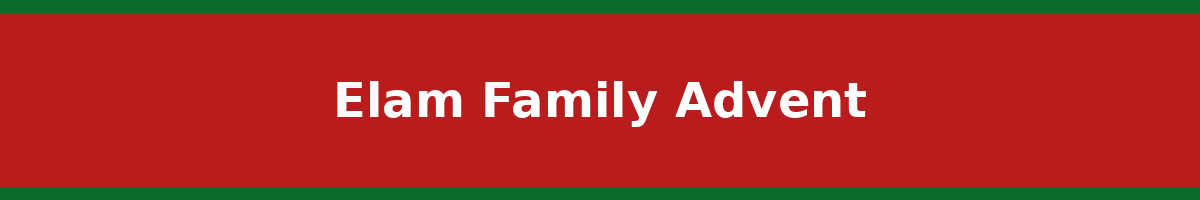
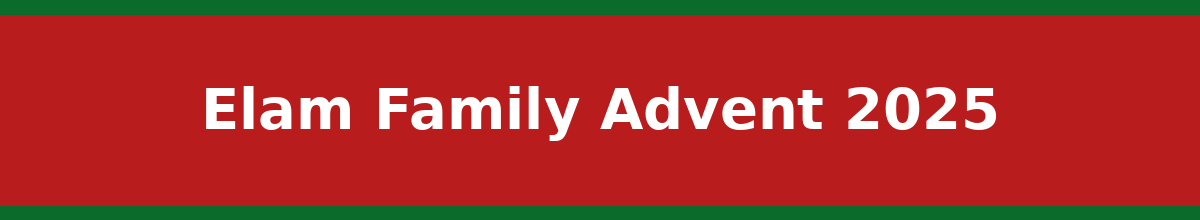
Add files via upload
updates rewards for certain days due to changes.

Changed region(s): [[0.1542, 0.39, 0.8325, 0.63], [0.0, 0.93, 1.0, 0.96], [0.0, 0.06, 1.0, 0.09]]

diff --git a/advent_pages/index.html b/advent_pages/index.html
@@ -1,7 +1,8 @@
 <html><head><meta charset='utf-8'><title>Advent Calendar</title>
 <style>
 body { font-family: Arial, sans-serif; background: linear-gradient(180deg,#fdf7f2,#f3f0ff); color: #1f2937; }
-.header { background: #b91c1c; color: #fff; text-align: center; padding-bottom: 8px; }
+.header { background: #b91c1c; color: #fff; text-align: center; }
+.header img.banner { width: 100%; max-width: 1200px; height: auto; display: block; margin: 0 auto; }
 .container { max-width: 820px; margin: 24px auto; padding: 24px; background: #ffffffcf; border-radius: 16px; box-shadow: 0 6px 20px rgba(0,0,0,0.1);} 
 h1 { margin: 10px 0 0; font-size: 28px; }
 h2 { color: #0a6b2b; margin-top: 18px; }
@@ -10,28 +11,28 @@ a.btn { display: inline-block; margin-top: 16px; padding: 12px 16px; background:
 button { margin-top: 12px; padding: 10px 14px; background: #b00020; color: #fff; border: none; border-radius: 8px; cursor: pointer; }
 #answer { display: none; margin-top: 10px; font-weight: bold; color: #111827; }
 </style></head><body>
-<div class='header'><h1>Advent Calendar 2025</h1></div>
+<div class='header'><img src='assets/header_banner.png' class='banner' alt='Elam Family Advent Banner'/><h1>Advent Calendar 2025</h1></div>
 <div class='container'><ol>
 <li><a href='day_01.html'>Day 1: Tech day (unlimited screen time for 2 hrs)</a></li>
 <li><a href='day_02.html'>Day 2: Stay up 30 min late</a></li>
 <li><a href='day_03.html'>Day 3: Ice cream dessert after swim</a></li>
 <li><a href='day_04.html'>Day 4: Choose dinner for the night</a></li>
 <li><a href='day_05.html'>Day 5: Get taken to school in the morning</a></li>
-<li><a href='day_06.html'>Day 6: Skip dog poop Chore</a></li>
-<li><a href='day_07.html'>Day 7: Play 2 hours of any vides games with Dad</a></li>
-<li><a href='day_08.html'>Day 8: Skip swin practice</a></li>
+<li><a href='day_06.html'>Day 6: Skip dog poop chore</a></li>
+<li><a href='day_07.html'>Day 7: Play 2 hours of any video games with Dad</a></li>
+<li><a href='day_08.html'>Day 8: Get taken to school in the morning</a></li>
 <li><a href='day_09.html'>Day 9: Stay up 30 min late</a></li>
-<li><a href='day_10.html'>Day 10: $5 dollar Starbucks gift card</a></li>
-<li><a href='day_11.html'>Day 11: Get taken to school in the morning</a></li>
-<li><a href='day_12.html'>Day 12: Choose dinner for the night</a></li>
+<li><a href='day_10.html'>Day 10: Choose dinner for the night</a></li>
+<li><a href='day_11.html'>Day 11: $5 Starbucks gift card</a></li>
+<li><a href='day_12.html'>Day 12: Donuts with Dad</a></li>
 <li><a href='day_13.html'>Day 13: Nitro Circus Gift</a></li>
-<li><a href='day_14.html'>Day 14: Play 2 hours of any vides games with Dad</a></li>
-<li><a href='day_15.html'>Day 15: Tech day (unlimited screen time for 2 hrs)</a></li>
+<li><a href='day_14.html'>Day 14: Play 2 hours of any video games with Dad</a></li>
+<li><a href='day_15.html'>Day 15: Skip swim practice</a></li>
 <li><a href='day_16.html'>Day 16: Stay up 30 min late</a></li>
 <li><a href='day_17.html'>Day 17: Ice cream dessert after swim</a></li>
 <li><a href='day_18.html'>Day 18: Get taken to school in the morning</a></li>
 <li><a href='day_19.html'>Day 19: Choose dinner for the night</a></li>
-<li><a href='day_20.html'>Day 20: Skip dog poop Chore</a></li>
+<li><a href='day_20.html'>Day 20: Skip dog poop chore</a></li>
 <li><a href='day_21.html'>Day 21: Weekend theater movie</a></li>
 <li><a href='day_22.html'>Day 22: Skip swim practice</a></li>
 <li><a href='day_23.html'>Day 23: Stay up 30 min late</a></li>

diff --git a/advent_pages/day_07.html b/advent_pages/day_07.html
@@ -5,7 +5,8 @@
 <title>Day 7 - Sunday - School Night</title>
 <style>
 body { font-family: Arial, sans-serif; background: linear-gradient(180deg,#fdf7f2,#f3f0ff); color: #1f2937; }
-.header { background: #b91c1c; color: #fff; text-align: center; padding-bottom: 8px; }
+.header { background: #b91c1c; color: #fff; text-align: center; }
+.header img.banner { width: 100%; max-width: 1200px; height: auto; display: block; margin: 0 auto; }
 .container { max-width: 820px; margin: 24px auto; padding: 24px; background: #ffffffcf; border-radius: 16px; box-shadow: 0 6px 20px rgba(0,0,0,0.1);} 
 h1 { margin: 10px 0 0; font-size: 28px; }
 h2 { color: #0a6b2b; margin-top: 18px; }
@@ -14,14 +15,14 @@ a.btn { display: inline-block; margin-top: 16px; padding: 12px 16px; background:
 button { margin-top: 12px; padding: 10px 14px; background: #b00020; color: #fff; border: none; border-radius: 8px; cursor: pointer; }
 #answer { display: none; margin-top: 10px; font-weight: bold; color: #111827; }
 </style>
-<script>function showAnswer() { document.getElementById('answer').style.display = 'block'; }</script>
+<script>function showAnswer(){document.getElementById('answer').style.display='block';}</script>
 </head>
 <body>
 <script src='js/snow.js'></script>
-<div class='header'><h1>Day 7 - Sunday - School Night</h1></div>
+<div class='header'><img src='assets/header_banner.png' class='banner' alt='Elam Family Advent Banner'/><h1>Day 7 - Sunday - School Night</h1></div>
 <div class='container'>
   <h2>Reward</h2>
-  <div class='box'>Play 2 hours of any vides games with Dad</div>
+  <div class='box'>Play 2 hours of any video games with Dad</div>
   <h2>Riddle</h2>
   <div class='box'>I hide surprises behind colors and curls; pull me to reveal the secret. What am I?</div>
   <button onclick='showAnswer()'>Show Answer</button>

diff --git a/advent_pages/day_14.html b/advent_pages/day_14.html
@@ -5,7 +5,8 @@
 <title>Day 14 - Sunday - School Night</title>
 <style>
 body { font-family: Arial, sans-serif; background: linear-gradient(180deg,#fdf7f2,#f3f0ff); color: #1f2937; }
-.header { background: #b91c1c; color: #fff; text-align: center; padding-bottom: 8px; }
+.header { background: #b91c1c; color: #fff; text-align: center; }
+.header img.banner { width: 100%; max-width: 1200px; height: auto; display: block; margin: 0 auto; }
 .container { max-width: 820px; margin: 24px auto; padding: 24px; background: #ffffffcf; border-radius: 16px; box-shadow: 0 6px 20px rgba(0,0,0,0.1);} 
 h1 { margin: 10px 0 0; font-size: 28px; }
 h2 { color: #0a6b2b; margin-top: 18px; }
@@ -14,14 +15,14 @@ a.btn { display: inline-block; margin-top: 16px; padding: 12px 16px; background:
 button { margin-top: 12px; padding: 10px 14px; background: #b00020; color: #fff; border: none; border-radius: 8px; cursor: pointer; }
 #answer { display: none; margin-top: 10px; font-weight: bold; color: #111827; }
 </style>
-<script>function showAnswer() { document.getElementById('answer').style.display = 'block'; }</script>
+<script>function showAnswer(){document.getElementById('answer').style.display='block';}</script>
 </head>
 <body>
 <script src='js/snow.js'></script>
-<div class='header'><h1>Day 14 - Sunday - School Night</h1></div>
+<div class='header'><img src='assets/header_banner.png' class='banner' alt='Elam Family Advent Banner'/><h1>Day 14 - Sunday - School Night</h1></div>
 <div class='container'>
   <h2>Reward</h2>
-  <div class='box'>Play 2 hours of any vides games with Dad</div>
+  <div class='box'>Play 2 hours of any video games with Dad</div>
   <h2>Riddle</h2>
   <div class='box'>Striped like a tiny barber’s pole with a hook for holding cheer. What am I?</div>
   <button onclick='showAnswer()'>Show Answer</button>

diff --git a/advent_pages/day_10.html b/advent_pages/day_10.html
@@ -5,7 +5,8 @@
 <title>Day 10 - Wednesday - School Night</title>
 <style>
 body { font-family: Arial, sans-serif; background: linear-gradient(180deg,#fdf7f2,#f3f0ff); color: #1f2937; }
-.header { background: #b91c1c; color: #fff; text-align: center; padding-bottom: 8px; }
+.header { background: #b91c1c; color: #fff; text-align: center; }
+.header img.banner { width: 100%; max-width: 1200px; height: auto; display: block; margin: 0 auto; }
 .container { max-width: 820px; margin: 24px auto; padding: 24px; background: #ffffffcf; border-radius: 16px; box-shadow: 0 6px 20px rgba(0,0,0,0.1);} 
 h1 { margin: 10px 0 0; font-size: 28px; }
 h2 { color: #0a6b2b; margin-top: 18px; }
@@ -14,14 +15,14 @@ a.btn { display: inline-block; margin-top: 16px; padding: 12px 16px; background:
 button { margin-top: 12px; padding: 10px 14px; background: #b00020; color: #fff; border: none; border-radius: 8px; cursor: pointer; }
 #answer { display: none; margin-top: 10px; font-weight: bold; color: #111827; }
 </style>
-<script>function showAnswer() { document.getElementById('answer').style.display = 'block'; }</script>
+<script>function showAnswer(){document.getElementById('answer').style.display='block';}</script>
 </head>
 <body>
 <script src='js/snow.js'></script>
-<div class='header'><h1>Day 10 - Wednesday - School Night</h1></div>
+<div class='header'><img src='assets/header_banner.png' class='banner' alt='Elam Family Advent Banner'/><h1>Day 10 - Wednesday - School Night</h1></div>
 <div class='container'>
   <h2>Reward</h2>
-  <div class='box'>$5 dollar Starbucks gift card</div>
+  <div class='box'>Choose dinner for the night</div>
   <h2>Riddle</h2>
   <div class='box'>Made by hands that never sell, I’m wrapped in wonder without a price tag. What am I?</div>
   <button onclick='showAnswer()'>Show Answer</button>

diff --git a/advent_pages/day_11.html b/advent_pages/day_11.html
@@ -5,7 +5,8 @@
 <title>Day 11 - Thursday - School Night</title>
 <style>
 body { font-family: Arial, sans-serif; background: linear-gradient(180deg,#fdf7f2,#f3f0ff); color: #1f2937; }
-.header { background: #b91c1c; color: #fff; text-align: center; padding-bottom: 8px; }
+.header { background: #b91c1c; color: #fff; text-align: center; }
+.header img.banner { width: 100%; max-width: 1200px; height: auto; display: block; margin: 0 auto; }
 .container { max-width: 820px; margin: 24px auto; padding: 24px; background: #ffffffcf; border-radius: 16px; box-shadow: 0 6px 20px rgba(0,0,0,0.1);} 
 h1 { margin: 10px 0 0; font-size: 28px; }
 h2 { color: #0a6b2b; margin-top: 18px; }
@@ -14,14 +15,14 @@ a.btn { display: inline-block; margin-top: 16px; padding: 12px 16px; background:
 button { margin-top: 12px; padding: 10px 14px; background: #b00020; color: #fff; border: none; border-radius: 8px; cursor: pointer; }
 #answer { display: none; margin-top: 10px; font-weight: bold; color: #111827; }
 </style>
-<script>function showAnswer() { document.getElementById('answer').style.display = 'block'; }</script>
+<script>function showAnswer(){document.getElementById('answer').style.display='block';}</script>
 </head>
 <body>
 <script src='js/snow.js'></script>
-<div class='header'><h1>Day 11 - Thursday - School Night</h1></div>
+<div class='header'><img src='assets/header_banner.png' class='banner' alt='Elam Family Advent Banner'/><h1>Day 11 - Thursday - School Night</h1></div>
 <div class='container'>
   <h2>Reward</h2>
-  <div class='box'>Get taken to school in the morning</div>
+  <div class='box'>$5 Starbucks gift card</div>
   <h2>Riddle</h2>
   <div class='box'>Stacked in three, I wear a carrot crown; one ray of sun and I bow out. Who am I?</div>
   <button onclick='showAnswer()'>Show Answer</button>

diff --git a/advent_pages/day_15.html b/advent_pages/day_15.html
@@ -5,7 +5,8 @@
 <title>Day 15 - Monday - School Night</title>
 <style>
 body { font-family: Arial, sans-serif; background: linear-gradient(180deg,#fdf7f2,#f3f0ff); color: #1f2937; }
-.header { background: #b91c1c; color: #fff; text-align: center; padding-bottom: 8px; }
+.header { background: #b91c1c; color: #fff; text-align: center; }
+.header img.banner { width: 100%; max-width: 1200px; height: auto; display: block; margin: 0 auto; }
 .container { max-width: 820px; margin: 24px auto; padding: 24px; background: #ffffffcf; border-radius: 16px; box-shadow: 0 6px 20px rgba(0,0,0,0.1);} 
 h1 { margin: 10px 0 0; font-size: 28px; }
 h2 { color: #0a6b2b; margin-top: 18px; }
@@ -14,14 +15,14 @@ a.btn { display: inline-block; margin-top: 16px; padding: 12px 16px; background:
 button { margin-top: 12px; padding: 10px 14px; background: #b00020; color: #fff; border: none; border-radius: 8px; cursor: pointer; }
 #answer { display: none; margin-top: 10px; font-weight: bold; color: #111827; }
 </style>
-<script>function showAnswer() { document.getElementById('answer').style.display = 'block'; }</script>
+<script>function showAnswer(){document.getElementById('answer').style.display='block';}</script>
 </head>
 <body>
 <script src='js/snow.js'></script>
-<div class='header'><h1>Day 15 - Monday - School Night</h1></div>
+<div class='header'><img src='assets/header_banner.png' class='banner' alt='Elam Family Advent Banner'/><h1>Day 15 - Monday - School Night</h1></div>
 <div class='container'>
   <h2>Reward</h2>
-  <div class='box'>Tech day (unlimited screen time for 2 hrs)</div>
+  <div class='box'>Skip swim practice</div>
   <h2>Riddle</h2>
   <div class='box'>We toil all year for joy, accepting cookies as wages. Who are we?</div>
   <button onclick='showAnswer()'>Show Answer</button>

diff --git a/advent_pages/day_08.html b/advent_pages/day_08.html
@@ -5,7 +5,8 @@
 <title>Day 8 - Monday - School Night</title>
 <style>
 body { font-family: Arial, sans-serif; background: linear-gradient(180deg,#fdf7f2,#f3f0ff); color: #1f2937; }
-.header { background: #b91c1c; color: #fff; text-align: center; padding-bottom: 8px; }
+.header { background: #b91c1c; color: #fff; text-align: center; }
+.header img.banner { width: 100%; max-width: 1200px; height: auto; display: block; margin: 0 auto; }
 .container { max-width: 820px; margin: 24px auto; padding: 24px; background: #ffffffcf; border-radius: 16px; box-shadow: 0 6px 20px rgba(0,0,0,0.1);} 
 h1 { margin: 10px 0 0; font-size: 28px; }
 h2 { color: #0a6b2b; margin-top: 18px; }
@@ -14,14 +15,14 @@ a.btn { display: inline-block; margin-top: 16px; padding: 12px 16px; background:
 button { margin-top: 12px; padding: 10px 14px; background: #b00020; color: #fff; border: none; border-radius: 8px; cursor: pointer; }
 #answer { display: none; margin-top: 10px; font-weight: bold; color: #111827; }
 </style>
-<script>function showAnswer() { document.getElementById('answer').style.display = 'block'; }</script>
+<script>function showAnswer(){document.getElementById('answer').style.display='block';}</script>
 </head>
 <body>
 <script src='js/snow.js'></script>
-<div class='header'><h1>Day 8 - Monday - School Night</h1></div>
+<div class='header'><img src='assets/header_banner.png' class='banner' alt='Elam Family Advent Banner'/><h1>Day 8 - Monday - School Night</h1></div>
 <div class='container'>
   <h2>Reward</h2>
-  <div class='box'>Skip swin practice</div>
+  <div class='box'>Get taken to school in the morning</div>
   <h2>Riddle</h2>
   <div class='box'>I’m green and not a tree; under me, courage turns into a kiss. What am I?</div>
   <button onclick='showAnswer()'>Show Answer</button>

diff --git a/advent_pages/day_12.html b/advent_pages/day_12.html
@@ -5,7 +5,8 @@
 <title>Day 12 - Friday</title>
 <style>
 body { font-family: Arial, sans-serif; background: linear-gradient(180deg,#fdf7f2,#f3f0ff); color: #1f2937; }
-.header { background: #b91c1c; color: #fff; text-align: center; padding-bottom: 8px; }
+.header { background: #b91c1c; color: #fff; text-align: center; }
+.header img.banner { width: 100%; max-width: 1200px; height: auto; display: block; margin: 0 auto; }
 .container { max-width: 820px; margin: 24px auto; padding: 24px; background: #ffffffcf; border-radius: 16px; box-shadow: 0 6px 20px rgba(0,0,0,0.1);} 
 h1 { margin: 10px 0 0; font-size: 28px; }
 h2 { color: #0a6b2b; margin-top: 18px; }
@@ -14,14 +15,14 @@ a.btn { display: inline-block; margin-top: 16px; padding: 12px 16px; background:
 button { margin-top: 12px; padding: 10px 14px; background: #b00020; color: #fff; border: none; border-radius: 8px; cursor: pointer; }
 #answer { display: none; margin-top: 10px; font-weight: bold; color: #111827; }
 </style>
-<script>function showAnswer() { document.getElementById('answer').style.display = 'block'; }</script>
+<script>function showAnswer(){document.getElementById('answer').style.display='block';}</script>
 </head>
 <body>
 <script src='js/snow.js'></script>
-<div class='header'><h1>Day 12 - Friday</h1></div>
+<div class='header'><img src='assets/header_banner.png' class='banner' alt='Elam Family Advent Banner'/><h1>Day 12 - Friday</h1></div>
 <div class='container'>
   <h2>Reward</h2>
-  <div class='box'>Choose dinner for the night</div>
+  <div class='box'>Donuts with Dad</div>
   <h2>Riddle</h2>
   <div class='box'>A day that’s counted by many, celebrated by more; not a birthday, yet the world rejoices. What am I?</div>
   <button onclick='showAnswer()'>Show Answer</button>

diff --git a/advent_pages/day_20.html b/advent_pages/day_20.html
@@ -5,7 +5,8 @@
 <title>Day 20 - Saturday</title>
 <style>
 body { font-family: Arial, sans-serif; background: linear-gradient(180deg,#fdf7f2,#f3f0ff); color: #1f2937; }
-.header { background: #b91c1c; color: #fff; text-align: center; padding-bottom: 8px; }
+.header { background: #b91c1c; color: #fff; text-align: center; }
+.header img.banner { width: 100%; max-width: 1200px; height: auto; display: block; margin: 0 auto; }
 .container { max-width: 820px; margin: 24px auto; padding: 24px; background: #ffffffcf; border-radius: 16px; box-shadow: 0 6px 20px rgba(0,0,0,0.1);} 
 h1 { margin: 10px 0 0; font-size: 28px; }
 h2 { color: #0a6b2b; margin-top: 18px; }
@@ -14,14 +15,14 @@ a.btn { display: inline-block; margin-top: 16px; padding: 12px 16px; background:
 button { margin-top: 12px; padding: 10px 14px; background: #b00020; color: #fff; border: none; border-radius: 8px; cursor: pointer; }
 #answer { display: none; margin-top: 10px; font-weight: bold; color: #111827; }
 </style>
-<script>function showAnswer() { document.getElementById('answer').style.display = 'block'; }</script>
+<script>function showAnswer(){document.getElementById('answer').style.display='block';}</script>
 </head>
 <body>
 <script src='js/snow.js'></script>
-<div class='header'><h1>Day 20 - Saturday</h1></div>
+<div class='header'><img src='assets/header_banner.png' class='banner' alt='Elam Family Advent Banner'/><h1>Day 20 - Saturday</h1></div>
 <div class='container'>
   <h2>Reward</h2>
-  <div class='box'>Skip dog poop Chore</div>
+  <div class='box'>Skip dog poop chore</div>
   <h2>Riddle</h2>
   <div class='box'>Words you sing that travel door to door, yet carry no postage. What are they?</div>
   <button onclick='showAnswer()'>Show Answer</button>

diff --git a/advent_pages/day_06.html b/advent_pages/day_06.html
@@ -5,7 +5,8 @@
 <title>Day 6 - Saturday</title>
 <style>
 body { font-family: Arial, sans-serif; background: linear-gradient(180deg,#fdf7f2,#f3f0ff); color: #1f2937; }
-.header { background: #b91c1c; color: #fff; text-align: center; padding-bottom: 8px; }
+.header { background: #b91c1c; color: #fff; text-align: center; }
+.header img.banner { width: 100%; max-width: 1200px; height: auto; display: block; margin: 0 auto; }
 .container { max-width: 820px; margin: 24px auto; padding: 24px; background: #ffffffcf; border-radius: 16px; box-shadow: 0 6px 20px rgba(0,0,0,0.1);} 
 h1 { margin: 10px 0 0; font-size: 28px; }
 h2 { color: #0a6b2b; margin-top: 18px; }
@@ -14,14 +15,14 @@ a.btn { display: inline-block; margin-top: 16px; padding: 12px 16px; background:
 button { margin-top: 12px; padding: 10px 14px; background: #b00020; color: #fff; border: none; border-radius: 8px; cursor: pointer; }
 #answer { display: none; margin-top: 10px; font-weight: bold; color: #111827; }
 </style>
-<script>function showAnswer() { document.getElementById('answer').style.display = 'block'; }</script>
+<script>function showAnswer(){document.getElementById('answer').style.display='block';}</script>
 </head>
 <body>
 <script src='js/snow.js'></script>
-<div class='header'><h1>Day 6 - Saturday</h1></div>
+<div class='header'><img src='assets/header_banner.png' class='banner' alt='Elam Family Advent Banner'/><h1>Day 6 - Saturday</h1></div>
 <div class='container'>
   <h2>Reward</h2>
-  <div class='box'>Skip dog poop Chore</div>
+  <div class='box'>Skip dog poop chore</div>
   <h2>Riddle</h2>
   <div class='box'>I lead through fog with a beacon you can’t hold. Who am I?</div>
   <button onclick='showAnswer()'>Show Answer</button>

diff --git a/advent_pages/day_18.html b/advent_pages/day_18.html
@@ -5,7 +5,8 @@
 <title>Day 18 - Thursday - School Night</title>
 <style>
 body { font-family: Arial, sans-serif; background: linear-gradient(180deg,#fdf7f2,#f3f0ff); color: #1f2937; }
-.header { background: #b91c1c; color: #fff; text-align: center; padding-bottom: 8px; }
+.header { background: #b91c1c; color: #fff; text-align: center; }
+.header img.banner { width: 100%; max-width: 1200px; height: auto; display: block; margin: 0 auto; }
 .container { max-width: 820px; margin: 24px auto; padding: 24px; background: #ffffffcf; border-radius: 16px; box-shadow: 0 6px 20px rgba(0,0,0,0.1);} 
 h1 { margin: 10px 0 0; font-size: 28px; }
 h2 { color: #0a6b2b; margin-top: 18px; }
@@ -14,11 +15,11 @@ a.btn { display: inline-block; margin-top: 16px; padding: 12px 16px; background:
 button { margin-top: 12px; padding: 10px 14px; background: #b00020; color: #fff; border: none; border-radius: 8px; cursor: pointer; }
 #answer { display: none; margin-top: 10px; font-weight: bold; color: #111827; }
 </style>
-<script>function showAnswer() { document.getElementById('answer').style.display = 'block'; }</script>
+<script>function showAnswer(){document.getElementById('answer').style.display='block';}</script>
 </head>
 <body>
 <script src='js/snow.js'></script>
-<div class='header'><h1>Day 18 - Thursday - School Night</h1></div>
+<div class='header'><img src='assets/header_banner.png' class='banner' alt='Elam Family Advent Banner'/><h1>Day 18 - Thursday - School Night</h1></div>
 <div class='container'>
   <h2>Reward</h2>
   <div class='box'>Get taken to school in the morning</div>

diff --git a/advent_pages/day_01.html b/advent_pages/day_01.html
@@ -5,7 +5,8 @@
 <title>Day 1 - Monday - School Night</title>
 <style>
 body { font-family: Arial, sans-serif; background: linear-gradient(180deg,#fdf7f2,#f3f0ff); color: #1f2937; }
-.header { background: #b91c1c; color: #fff; text-align: center; padding-bottom: 8px; }
+.header { background: #b91c1c; color: #fff; text-align: center; }
+.header img.banner { width: 100%; max-width: 1200px; height: auto; display: block; margin: 0 auto; }
 .container { max-width: 820px; margin: 24px auto; padding: 24px; background: #ffffffcf; border-radius: 16px; box-shadow: 0 6px 20px rgba(0,0,0,0.1);} 
 h1 { margin: 10px 0 0; font-size: 28px; }
 h2 { color: #0a6b2b; margin-top: 18px; }
@@ -14,11 +15,11 @@ a.btn { display: inline-block; margin-top: 16px; padding: 12px 16px; background:
 button { margin-top: 12px; padding: 10px 14px; background: #b00020; color: #fff; border: none; border-radius: 8px; cursor: pointer; }
 #answer { display: none; margin-top: 10px; font-weight: bold; color: #111827; }
 </style>
-<script>function showAnswer() { document.getElementById('answer').style.display = 'block'; }</script>
+<script>function showAnswer(){document.getElementById('answer').style.display='block';}</script>
 </head>
 <body>
 <script src='js/snow.js'></script>
-<div class='header'><h1>Day 1 - Monday - School Night</h1></div>
+<div class='header'><img src='assets/header_banner.png' class='banner' alt='Elam Family Advent Banner'/><h1>Day 1 - Monday - School Night</h1></div>
 <div class='container'>
   <h2>Reward</h2>
   <div class='box'>Tech day (unlimited screen time for 2 hrs)</div>
